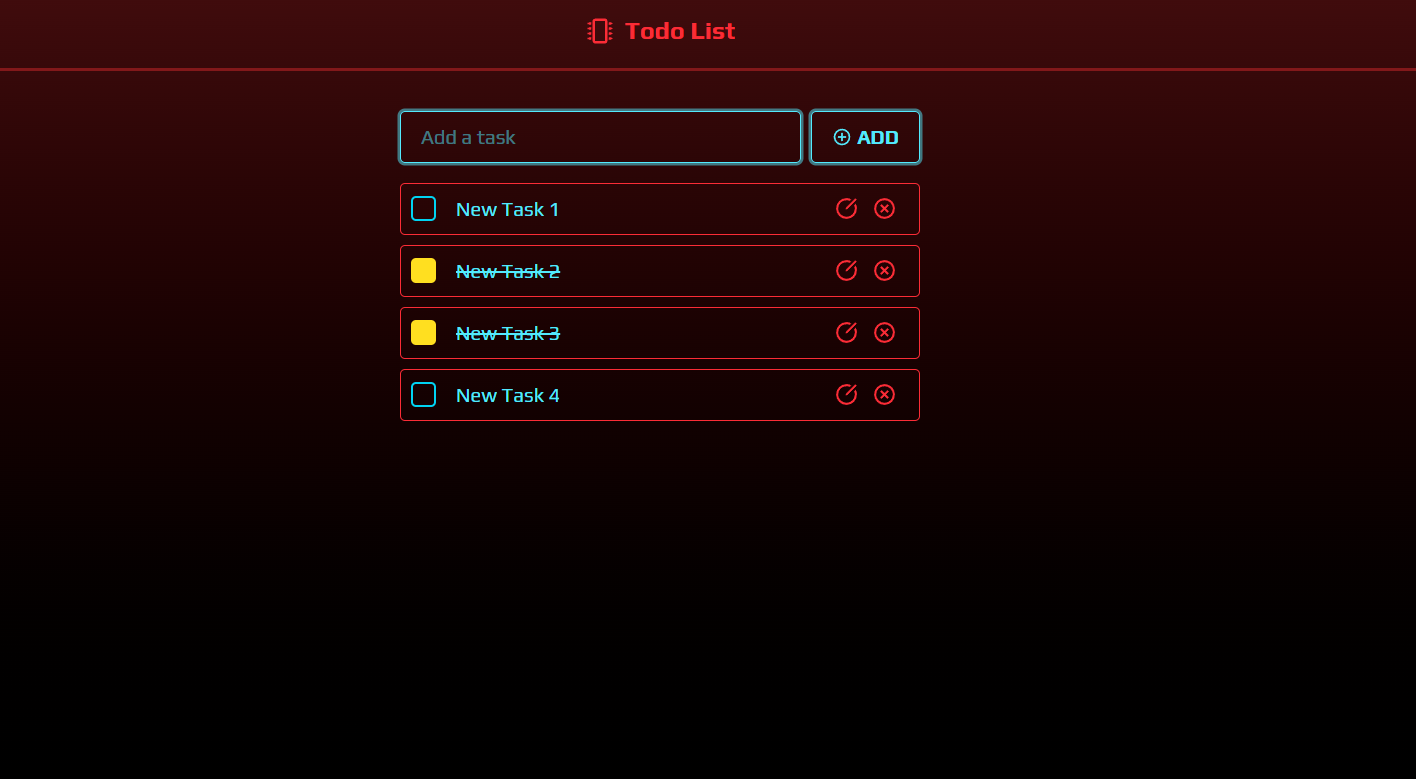
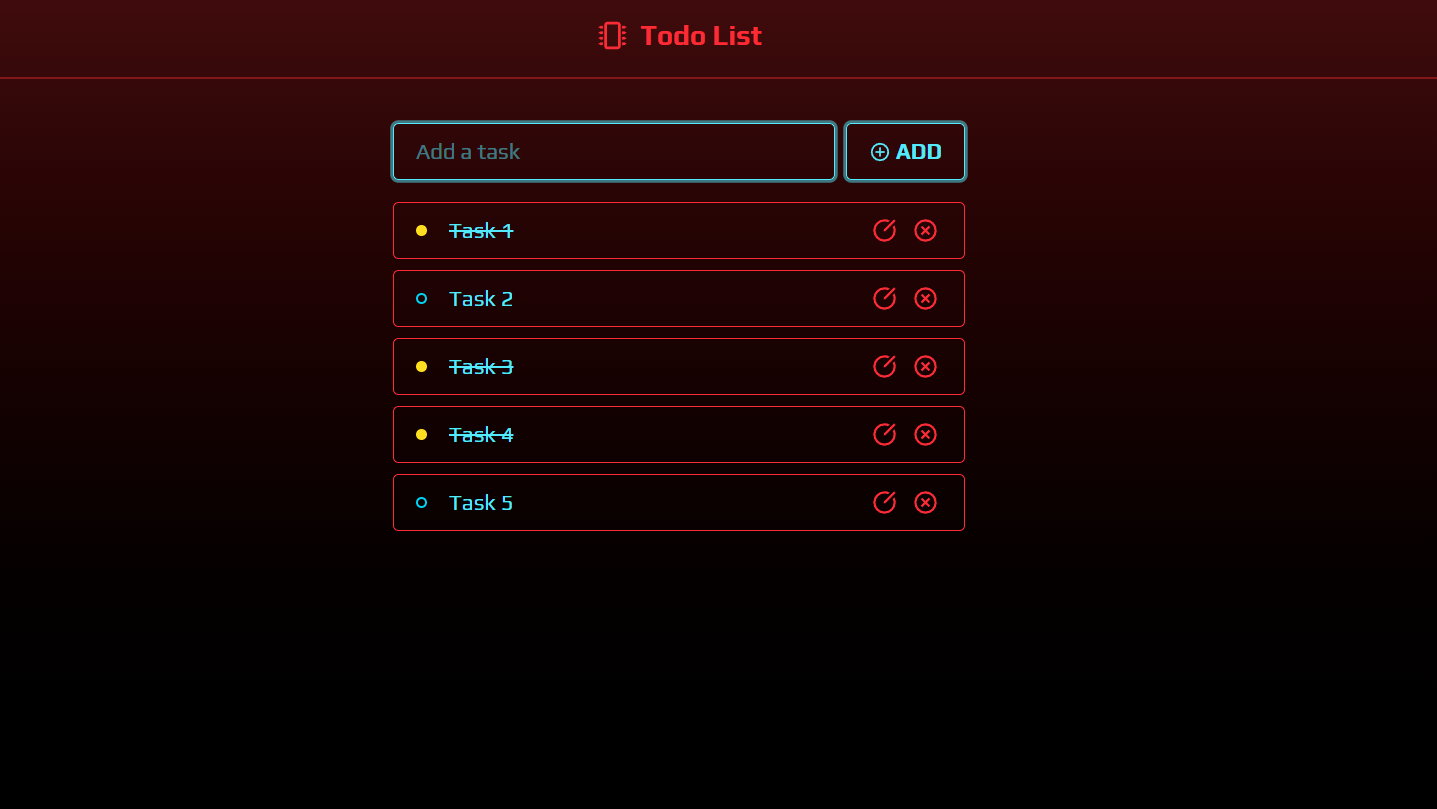
update style checkbox

diff --git a/src/App.tsx b/src/App.tsx
@@ -114,8 +114,8 @@ const App = () => {
                     type="checkbox"
                     checked={item.done}
                     onChange={() => toggleDone(index)}
-                    className="w-5 h-5 rounded appearance-none checked:bg-cyan-300 checked:border-cyan-300 border-2 border-cyan-400 focus:outline-none cursor-pointer"
-                  />
+                    className="w-2 h-2 ml-2 rounded appearance-none checked:bg-yellow-300 checked:border-yellow-300 border-2 border-cyan-400 focus:outline-none cursor-pointer"
+                  />              
                   {editingIndex === index ? (
                     <input
                       className="border-0 border-b border-cyan-300 bg-transparent p-1 w-full text-cyan-300 focus:outline-none focus:border-b-2 focus:border-cyan-300"
@@ -124,7 +124,7 @@ const App = () => {
                       onKeyDown={(e) => e.key === "Enter" && saveEdit(index)}
                       onBlur={() => saveEdit(index)}
                       autoFocus
-                    />
+                    />                     
                   ) : (
                     <span className={item.done ? "line-through" : ""}> {item.text} </span>
                   )}
